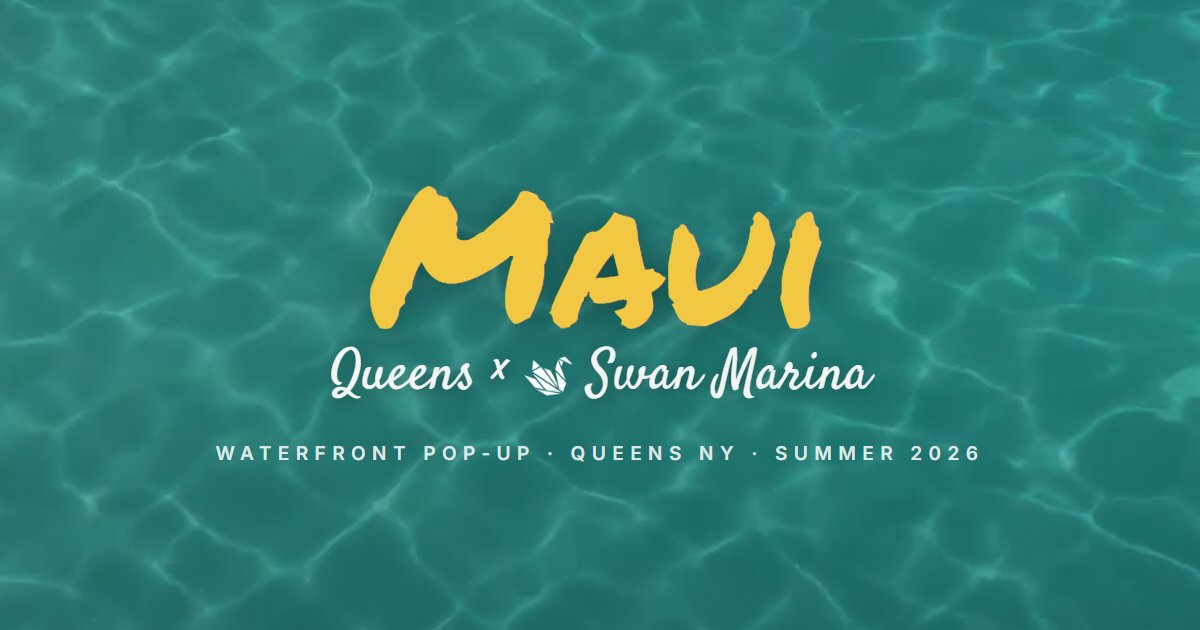
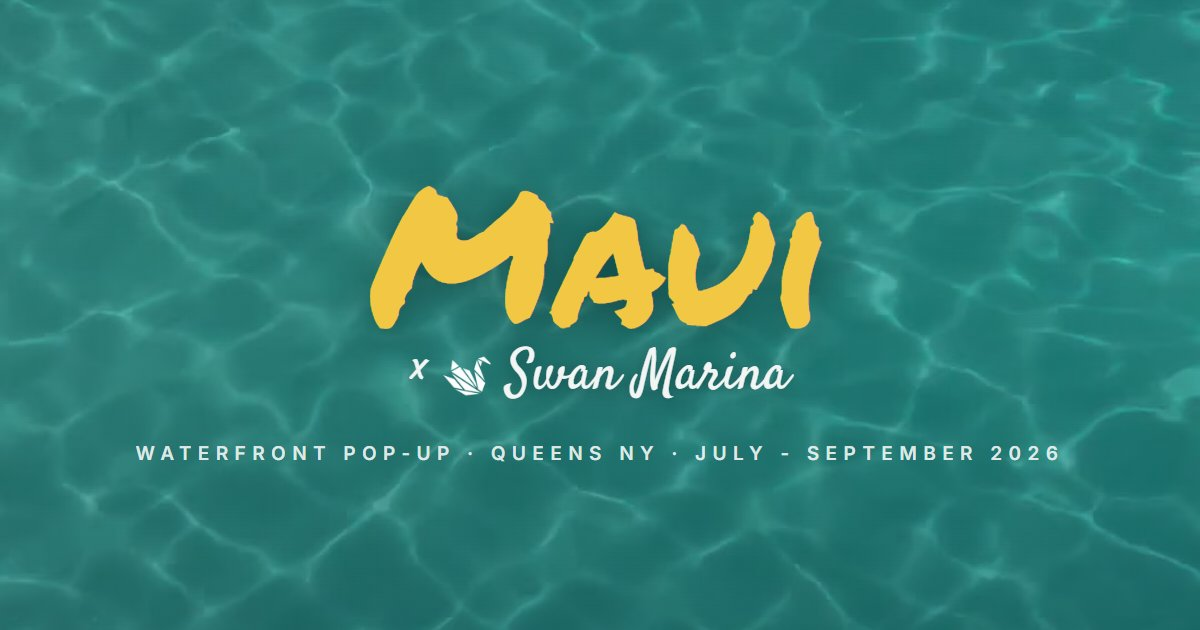
Lockup drops Queens; season reads July - September 2026
Owner reversed the earlier call: the logo is now Maui x Swan Marina,
consistently in the hero, nav, footer, page title, OG title and the
regenerated share card. Queens NY stays in the eyebrow and copy, so the
place is still named, just not in the wordmark.

Season line was "July to Late September"; now "July - September 2026"
in the eyebrow, the Events lead and the meta description.

Claude-Session: https://claude.ai/code/session_019BzEs3UGcFuVmc4iCVu4pE

Changed region(s): [[0.0925, 0.6937, 0.8942, 0.754], [0.2775, 0.5429, 0.74, 0.6333]]

diff --git a/index.html b/index.html
@@ -3,14 +3,14 @@
 <head>
 <meta charset="UTF-8">
 <meta name="viewport" content="width=device-width,initial-scale=1">
-<title>Maui Queens × Swan Marina · Dockside Raw Bar &amp; Kitchen</title>
-<meta name="description" content="Maui at the Marina. A limited-time summer waterfront pop-up at Swan Marina, 163-45 Cross Bay Blvd, Jamaica NY. July to late September.">
+<title>Maui × Swan Marina · Waterfront Pop-Up, Queens NY</title>
+<meta name="description" content="Maui at the Marina. A limited-time summer waterfront pop-up at Swan Marina, 163-45 Cross Bay Blvd, Jamaica NY. July - September 2026.">
 
 <!-- link previews: iMessage, WhatsApp, IG DMs all read these -->
 <meta property="og:type" content="website">
-<meta property="og:site_name" content="Maui Queens x Swan Marina">
-<meta property="og:title" content="Maui Queens &times; Swan Marina">
-<meta property="og:description" content="This summer, Maui has docked at the marina. Waterfront pop-up at Swan Marina, 163-45 Cross Bay Blvd, Queens NY. July to late September.">
+<meta property="og:site_name" content="Maui x Swan Marina">
+<meta property="og:title" content="Maui &times; Swan Marina">
+<meta property="og:description" content="This summer, Maui has docked at the marina. Waterfront pop-up at Swan Marina, 163-45 Cross Bay Blvd, Queens NY. July - September 2026.">
 <meta property="og:url" content="https://lte3.github.io/maui-brooklyn/">
 <meta property="og:image" content="https://lte3.github.io/maui-brooklyn/img/og-card.jpg">
 <meta property="og:image:width" content="1200">
@@ -161,7 +161,7 @@
   }
   .hero .wordmark2{
     font-family:'Satisfy',cursive;
-    font-size:clamp(24px,4.2vw,54px);
+    font-size:clamp(30px,4.8vw,62px);
     color:var(--bone);margin-top:2px;
     /* Q descender: Satisfy loops it deep, reserve or it clips */
     line-height:1.15;padding-bottom:10px;
@@ -427,7 +427,7 @@
 
 <nav class="nav">
   <div class="brand">
-    Maui<span class="m">Queens</span>
+    Maui
     <span class="at">
       <img class="swan-mark" src="v11/swan-mark.png" alt="" width="22" height="22">
       <span>Swan Marina</span>
@@ -437,10 +437,10 @@
 </nav>
 
 <header class="hero">
-  <div class="hero-eyebrow">Swan Marina - Waterfront Marina · Queens NY · July to Late September</div>
+  <div class="hero-eyebrow">Swan Marina - Waterfront Marina · Queens NY · July - September 2026</div>
   <h1>Maui</h1>
   <div class="wordmark2">
-    Queens&nbsp;&times;&nbsp;<img class="swan" src="v11/swan-mark.png" alt="" width="40" height="40">&nbsp;Swan&nbsp;Marina
+    &times;&nbsp;<img class="swan" src="v11/swan-mark.png" alt="" width="40" height="40">&nbsp;Swan&nbsp;Marina
   </div>
   <div class="rope"></div>
   <div class="tagline">This Summer, Maui Has Docked at the Marina</div>
@@ -488,7 +488,7 @@
   <section class="panel" id="panel-events" role="tabpanel" aria-labelledby="tab-events" data-panel="events" hidden>
     <div class="panel-header">
       <h2>Every week, <span class="accent">on the water.</span></h2>
-      <p class="lead">Thursday through Sunday, July to late September.</p>
+      <p class="lead">Thursday through Sunday, July - September 2026.</p>
     </div>
     <div class="menu-grid">
       <div class="dish"><div class="name">&#127802; Ladies Night</div><div class="desc">Kick off the weekend early with tropical cocktails, waterfront dining, live DJs, and exclusive drink specials for the ladies in an island-inspired atmosphere.</div><div class="meta"><span>Thursday</span><span>4pm to 12am</span></div></div>
@@ -581,7 +581,7 @@
 
 <footer id="visit-foot">
   <div class="rope"></div>
-  <div class="brand-foot">Maui<span class="m">Queens</span></div>
+  <div class="brand-foot">Maui</div>
   <div class="partner">
     <div class="kicker">In partnership with</div>
     <img src="v11/swan-marina.png" alt="Swan Marina NYC" width="120" height="120" loading="lazy">
